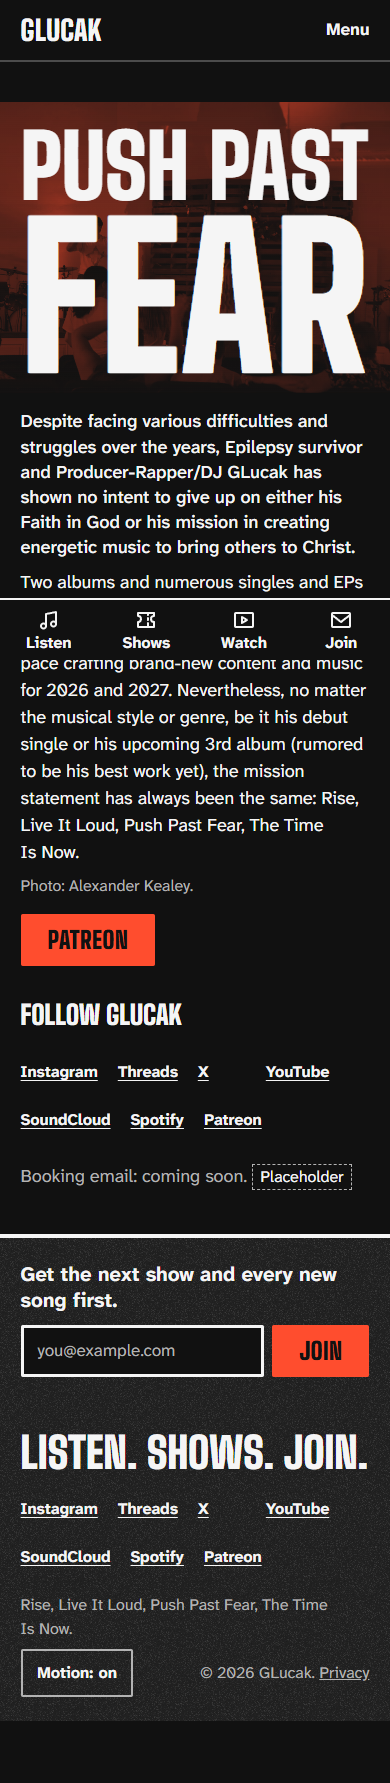
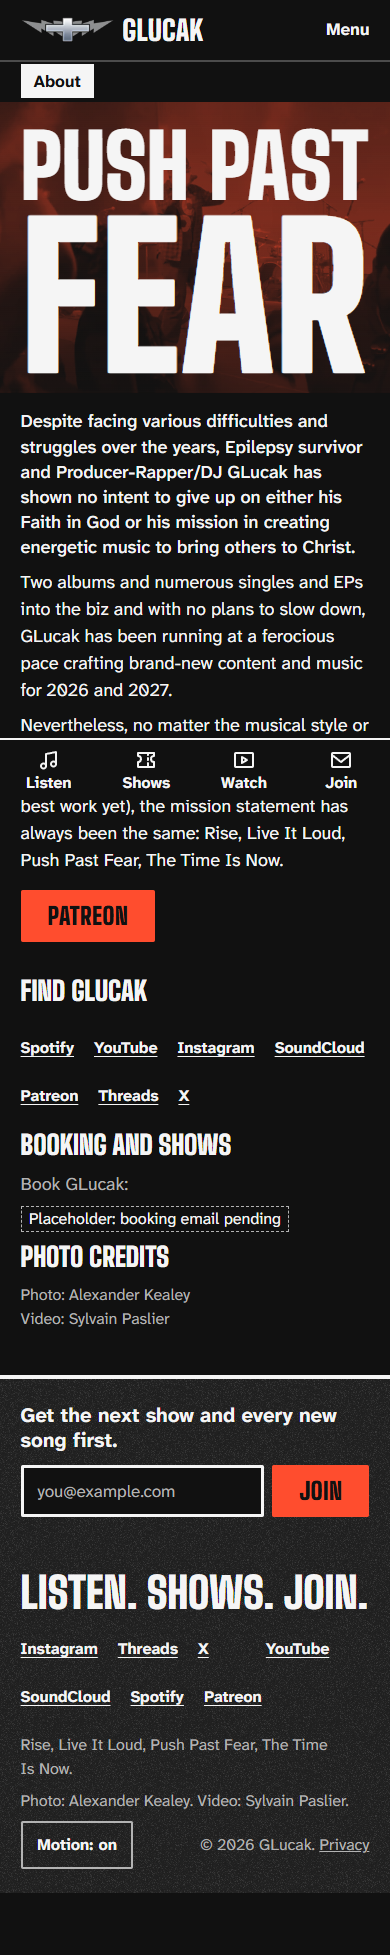
Pages: approved copy wired in; real Spotify covers for released titles
Music lists every released title as Spotify writes it with the artist credit, a Coming
list with pre-saves, and the IDENTITY block. About has the full bio word for word,
links and photo credits. tools/fetch-covers.mjs saves Spotify's cover art as small
webp files without metadata. Booking email and quotes stay off until Gabe answers.
63 tests.

Changed region(s): [[0.0, 0.0, 1.0, 0.9563], [0.7077, 0.5244, 0.9231, 0.5552]]

diff --git a/test/build.test.js b/test/build.test.js
@@ -99,3 +99,30 @@ test('port notes: no quote text, mark in header, one hero image, credits, no EXI
   const media = readdirSync(join(DIST, 'media'));
   assert.ok(!media.some((f) => /\.jpe?g$/i.test(f)), 'no JPG originals in media');
 });
+
+test('approved copy is on each page verbatim; no ASK GABE; no quote ships', () => {
+  const bio = ['Despite facing various difficulties and struggles over the years, Epilepsy survivor and Producer-Rapper/DJ GLucak has shown no intent to give up on either his Faith in God or his mission in creating energetic music to bring others to Christ.',
+    'Two albums and numerous singles and EPs into the biz and with no plans to slow down, GLucak has been running at a ferocious pace crafting brand-new content and music for 2026 and 2027.',
+    'Nevertheless, no matter the musical style or genre, be it his debut single or his upcoming 3rd album (rumored to be his best work yet), the mission statement has always been the same: Rise, Live It Loud, Push Past Fear, The Time Is Now.'];
+  const want = {
+    '/': ['Live It Loud', bio[0], 'Get the next show and every new song first.'],
+    '/music/': ['All releases', 'Hear more on SoundCloud', 'Latest release. Listen on:', 'Pre-save IDENTITY'],
+    '/shows/': ['Live It Loud', 'Book GLucak:'],
+    '/about/': [...bio, 'Find GLucak', 'Booking and shows', 'Photo credits', 'Photo: Alexander Kealey', 'Video: Sylvain Paslier'],
+  };
+  for (const [p, texts] of Object.entries(want)) for (const t of texts) assert.ok(html(p).includes(t), `${p}: ${t}`);
+  for (const p of Object.keys(pages)) {
+    const h = html(p);
+    assert.ok(!h.includes('ASK GABE'), p);
+    for (const q of ['Trust me, I know', 'Hope to see you there', 'From Gabe']) assert.ok(!h.includes(q), `${p}: quote ${q}`);
+  }
+});
+
+test('Music: artists credit shown; upcoming releases never listed as released', () => {
+  const m = html('/music/');
+  assert.match(m, /class="credit"[^>]*>GLucak, J-BOY</);
+  const released = m.split('<ul class="releases">').pop(); // last list = released
+  for (const t of ['Who I Am', 'Scenic Route']) assert.ok(!released.split('<div class="identity-state">')[0].includes(`<h3>${t}</h3>`), t);
+  assert.ok(!released.split('<div class="identity-state">')[0].includes('<h3>IDENTITY</h3>'));
+  assert.match(m, /<h3>Duck, Dodge, Jump, Fight<\/h3>/);
+});

diff --git a/src/components/content.js b/src/components/content.js
@@ -48,6 +48,12 @@ export function releases() {
   return [{ title: 'Go', type: 'single', cover: '/media/placeholder-cover.svg', link: GO, soundcloud: SOUNDCLOUD, placeholder: true }];
 }
 
+/** "Sep 4, 2026" (music.md date line); '' with no date. */
+export const dateLine = (d) => (d ? new Date(`${d}T12:00:00Z`).toLocaleDateString('en-US', { month: 'short', day: 'numeric', year: 'numeric', timeZone: 'UTC' }) : '');
+/** Spotify's credit line ("GLucak, J-BOY") only when it names someone besides GLucak. */
+export const credit = (r) => (r.artists && r.artists.trim() !== 'GLucak' ? r.artists : null);
+export const TYPE_TAG = { single: 'Single', ep: 'EP', album: 'Album' };
+
 /** Newest video with a valid 11-character YouTube id, or null (the block then links to the channel). */
 export function latestVideo() {
   const rows = (load('videos') ?? []).map((v) => {

diff --git a/src/styles/global.css b/src/styles/global.css
@@ -491,3 +491,7 @@ iframe.yt { width: 100%; border: 0; }
 .ph-chip.inline { position: static; display: inline-block; margin-top: var(--space-xs); }
 /* Sign-up honeypot: off-screen for people, still in the form for bots. */
 .hp { position: absolute; left: -9999px; width: 1px; height: 1px; overflow: hidden; }
+.release-meta { font-size: var(--step--1); color: var(--muted); text-transform: uppercase; letter-spacing: 0.04em; }
+.credit { font-size: var(--step--1); color: var(--muted); }
+.coming .release-row { border-top: 1px solid var(--muted); padding-top: var(--space-s); }
+.credit-list { font-size: var(--step--1); color: var(--muted); }

diff --git a/HANDOFF.md b/HANDOFF.md
@@ -31,7 +31,9 @@
   TRUST_PROXY=1** (needed for HSTS and real client IPs). `npm test` builds first (pretest); 58/58.
   Next: daily rebuild for release-day flips + host plan (owner decides the host). Laptop's real-photo round (ddf5d60) ported: Logo D mark + favicon, EXIF-free webp photos (no JPG ships), credits,
   'Out now:' + per-visit 'Next show' Now line (`<!--gl:now-->`, 14 days), Spotify outline button, quotes off until Gabe OKs
-  (`QUOTES_APPROVED`). Player 152px visible at 390x660, Home 5.25 screens. `npm test` 61/61. Claims released except
+  (`QUOTES_APPROVED`). Player 152px visible at 390x660, Home 5.25 screens. Copy from docs/copy/*.md wired into all 4
+  pages; release titles exact as on Spotify (+ `artists` credit line); real covers for the 8 released titles
+  (`node tools/fetch-covers.mjs`, Spotify oEmbed, webp, no metadata); upcoming covers wait for Gabe. `npm test` 63/63. Claims released except
   `server.js`, `src/lib/`. Waiting on the owner: hero A / B / both, host, Gabe's answers.
 - **Laptop (2026-11-05):** boss agent runs each round (plans, briefs the designer / copywriter, reviews). Done, all
   boss-approved: real Spotify embed (D19), Home copy `docs/copy/home.md` (D21, D23), prototype on Gabe's real photos +
